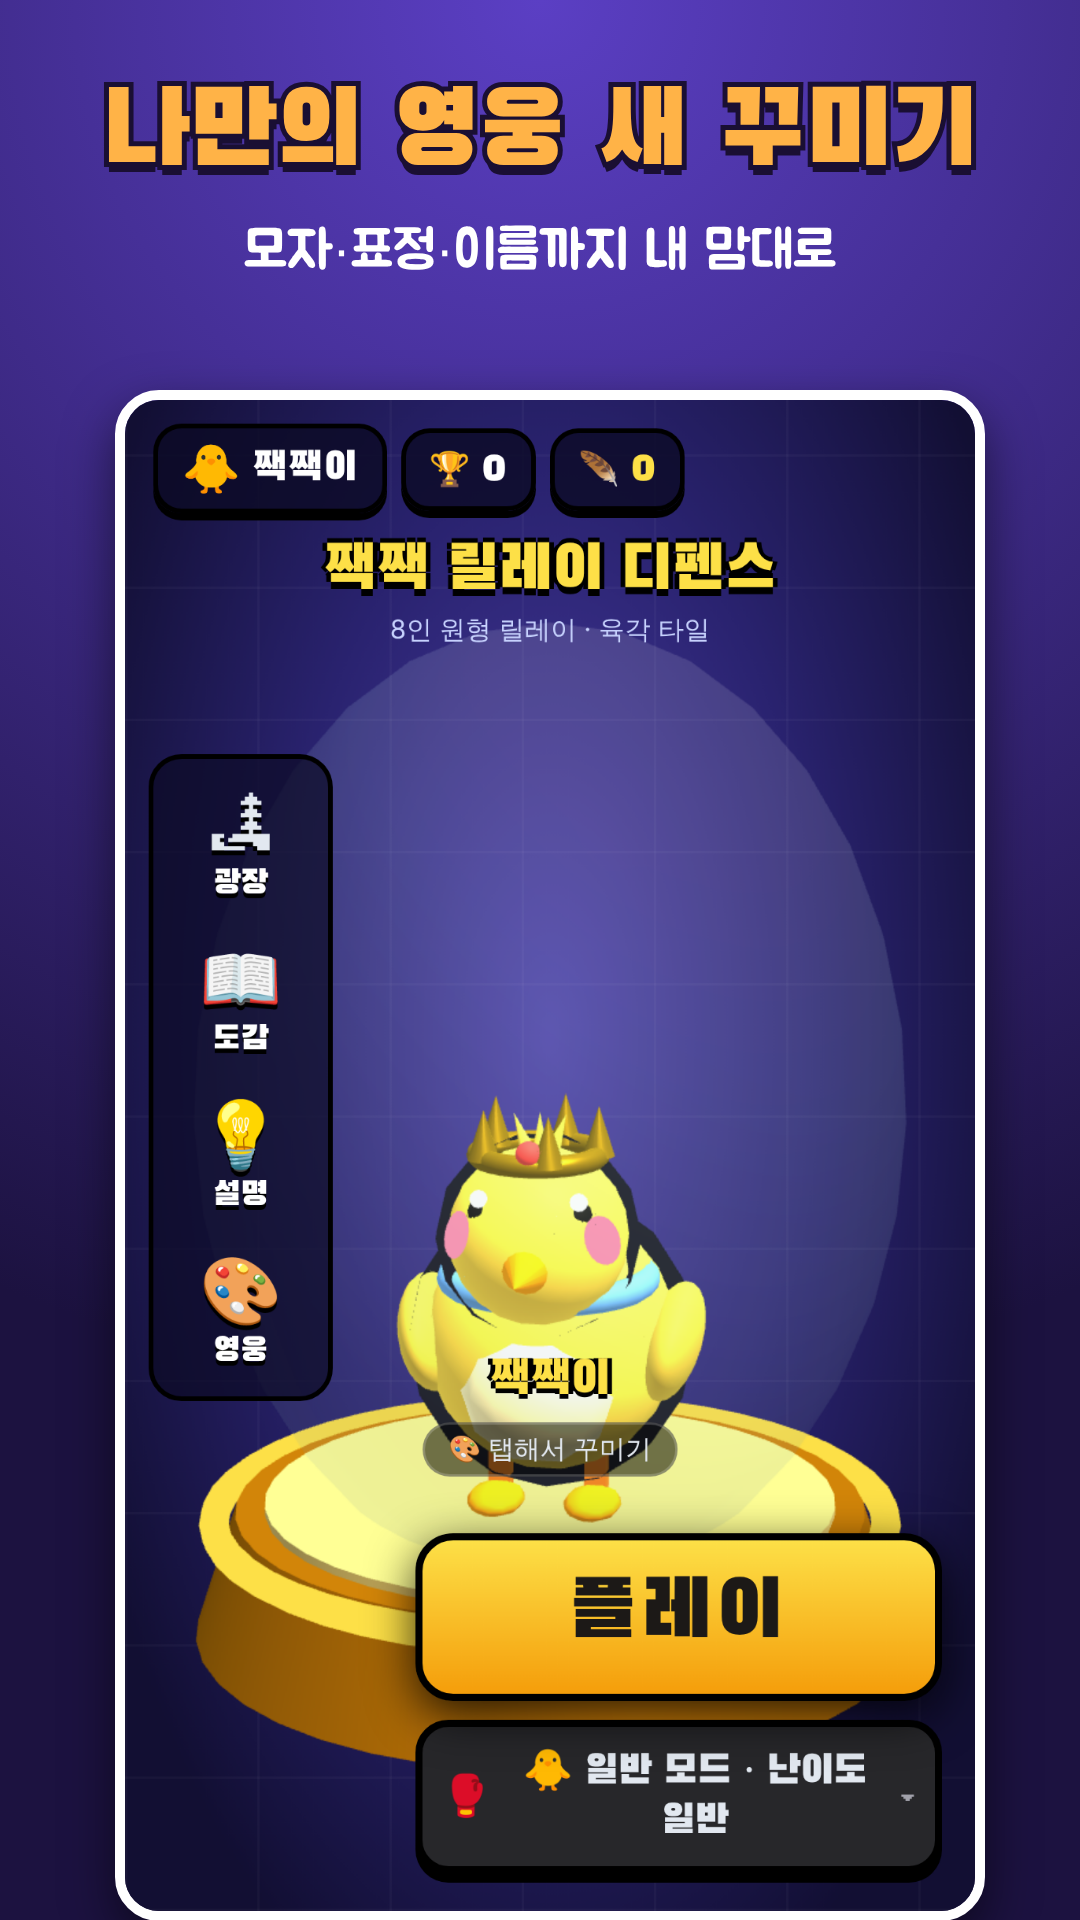
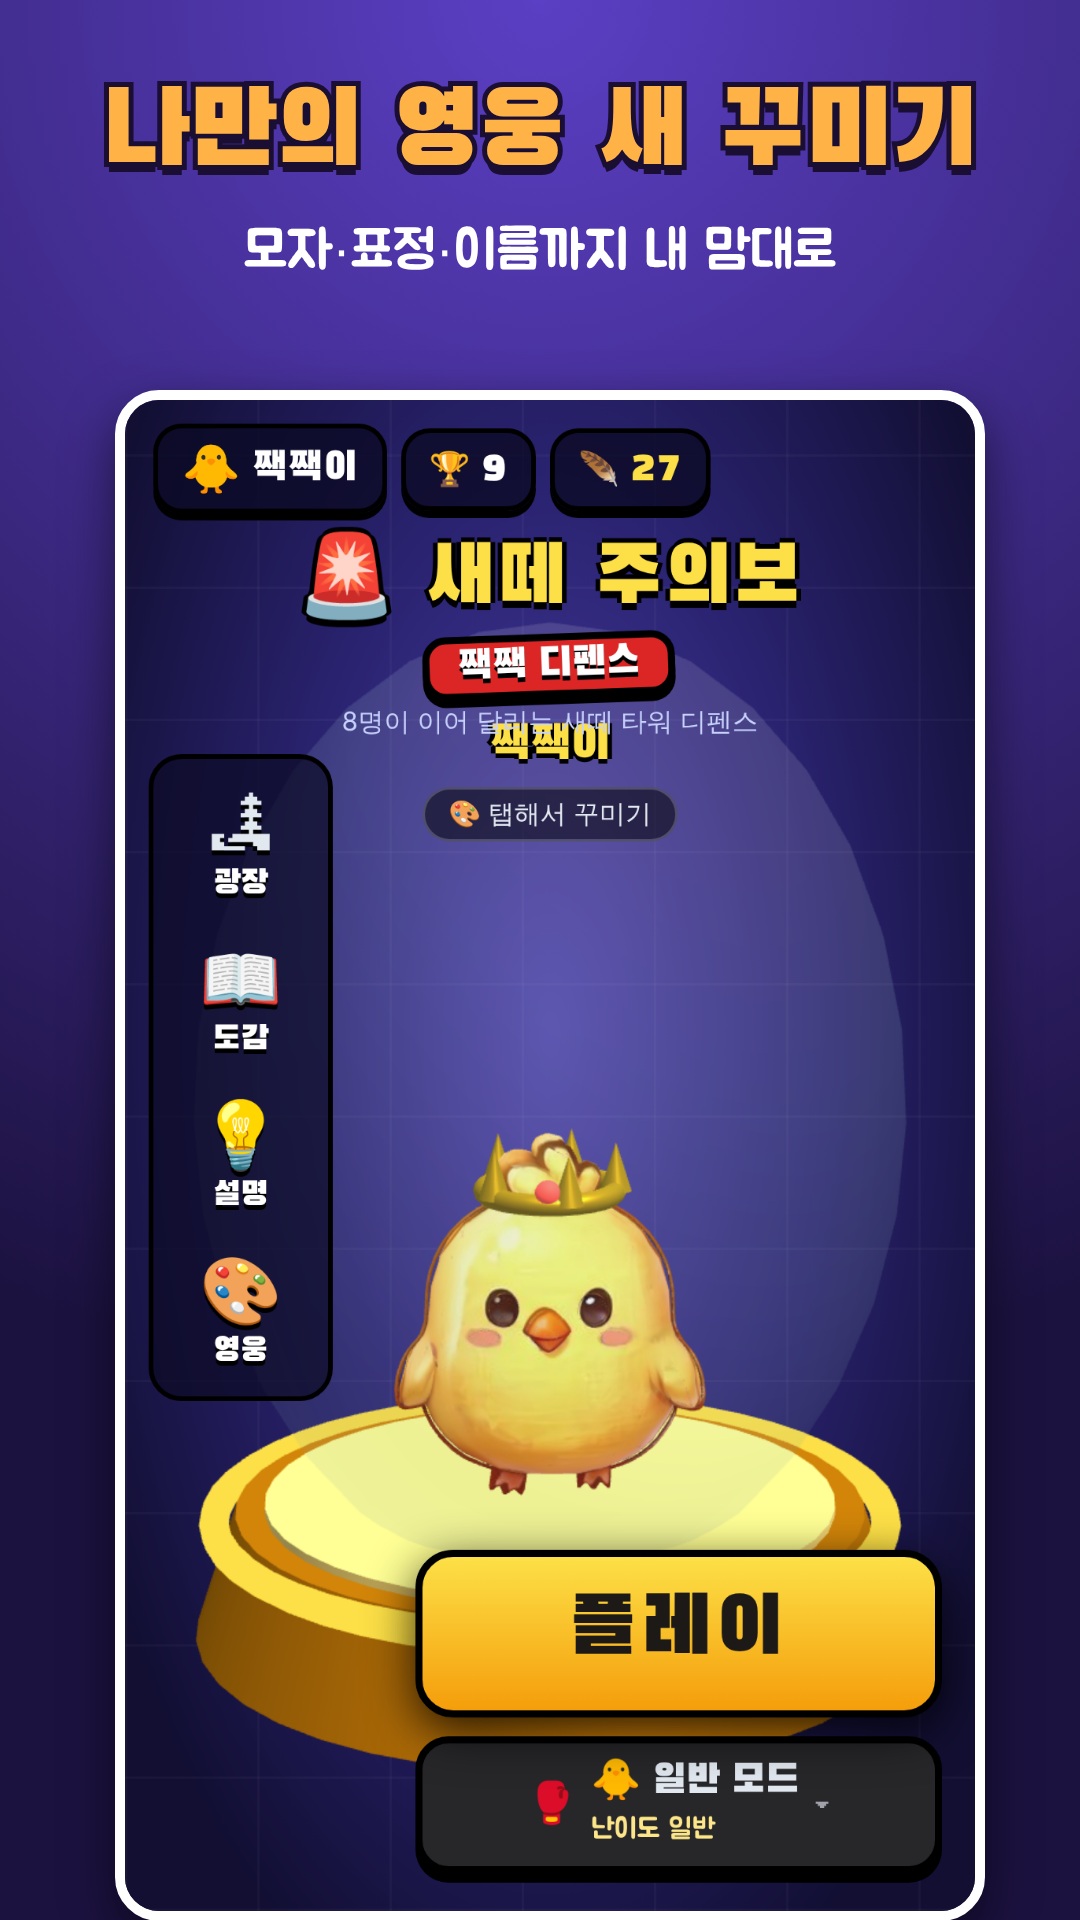
이름 변경 마무리: 미리보기 카드·스토어 그림 새 이름으로, 로비 영웅 이름 겹침 수정
Claude-Session: https://claude.ai/code/session_01WdwmgQ1X9No8TXxhVpqQwz

Changed region(s): [[0.3667, 0.5625, 0.8861, 0.9688], [0.275, 0.2188, 0.7639, 0.4375]]

diff --git a/index.html b/index.html
@@ -4,7 +4,7 @@
 <meta charset="utf-8">
 <meta name="viewport" content="width=device-width, initial-scale=1, viewport-fit=cover">
 <title>새떼 주의보: 짹짹 디펜스</title>
-<meta name="description" content="새떼 주의보 발령! 8명이 이어 달리는 3D 타워 디펜스. 웃긴 새 55종을 보내고 타워로 막아라. 설치 없이 바로 플레이.">
+<meta name="description" content="새떼 주의보 발령! 8명이 이어 달리는 3D 타워 디펜스. 웃긴 새 55종을 보내고 타워 42종으로 막아라. 설치 없이 바로 플레이.">
 <meta name="theme-color" content="#2a2370">
 <link rel="manifest" href="manifest.webmanifest">
 <link rel="icon" type="image/png" href="icons/icon-192.png">
@@ -15,8 +15,8 @@
 <meta property="og:type" content="website">
 <meta property="og:site_name" content="새떼 주의보: 짹짹 디펜스">
 <meta property="og:title" content="🚨 새떼 주의보: 짹짹 디펜스">
-<meta property="og:description" content="새떼 주의보 발령! 8명이 이어 달리는 3D 타워 디펜스. 웃긴 새 55종을 보내고 타워로 막아라. 설치 없이 바로 플레이.">
-<meta property="og:image" content="https://raw.githubusercontent.com/DDarkZi/jjak-relay-defense/main/og.jpg?v=4">
+<meta property="og:description" content="새떼 주의보 발령! 8명이 이어 달리는 3D 타워 디펜스. 웃긴 새 55종을 보내고 타워 42종으로 막아라. 설치 없이 바로 플레이.">
+<meta property="og:image" content="https://raw.githubusercontent.com/DDarkZi/jjak-relay-defense/main/og.jpg?v=5">
 <meta property="og:image:width" content="1200">
 <meta property="og:image:height" content="630">
 <meta property="og:image:alt" content="새떼 주의보: 짹짹 디펜스 - 발레리나 타조, 각설이 도도새, 욕쟁이 앵무새 캐릭터 카드">

diff --git a/css/style.css b/css/style.css
@@ -218,7 +218,7 @@ html{-webkit-tap-highlight-color:transparent}
 ::-webkit-scrollbar{width:6px;height:6px}::-webkit-scrollbar-track{background:#1e1b4b}::-webkit-scrollbar-thumb{background:#7c3aed;border-radius:99px}
 #lmodet{display:flex;flex-direction:column;align-items:flex-start;line-height:1.1;white-space:nowrap}
 #lmodet .lmd{font:12px Jua,system-ui,sans-serif;color:#fde68a;margin-top:2px}
-.lname{top:21%}.lhint{top:calc(21% + 30px)}
+.lname{top:calc(21% + 24px)}.lhint{top:calc(21% + 54px)}
 #again{color:#052e16!important;text-shadow:0 1px 0 #a7f3d0}
 .sh .tch s{color:#f5f3ff;font-size:10.5px}
 #md{color:#ede9fe}

diff --git a/assets/store/listing.md b/assets/store/listing.md
@@ -16,7 +16,7 @@
 발레리나 타조, 욕쟁이 앵무새, 각설이 도도새, 만원 버스 펠리컨, 악어새, 벌새 떼…
 새마다 능력이 달라요. 떼로 몰려오고, 건물을 넘고, 화나면 빨라지고, 죽으면 승객을 쏟아냅니다.
 
-■ 타워 41종 · 4가지 속성
+■ 타워 42종 · 5가지 속성
 불·얼음·번개·바람 속성을 골라 연구하고, 조합 타워로 진화시키세요.
 독 중첩, 화상 번짐, 연사 가속, 3타 치명타까지 타워마다 성격이 뚜렷해요.
 
